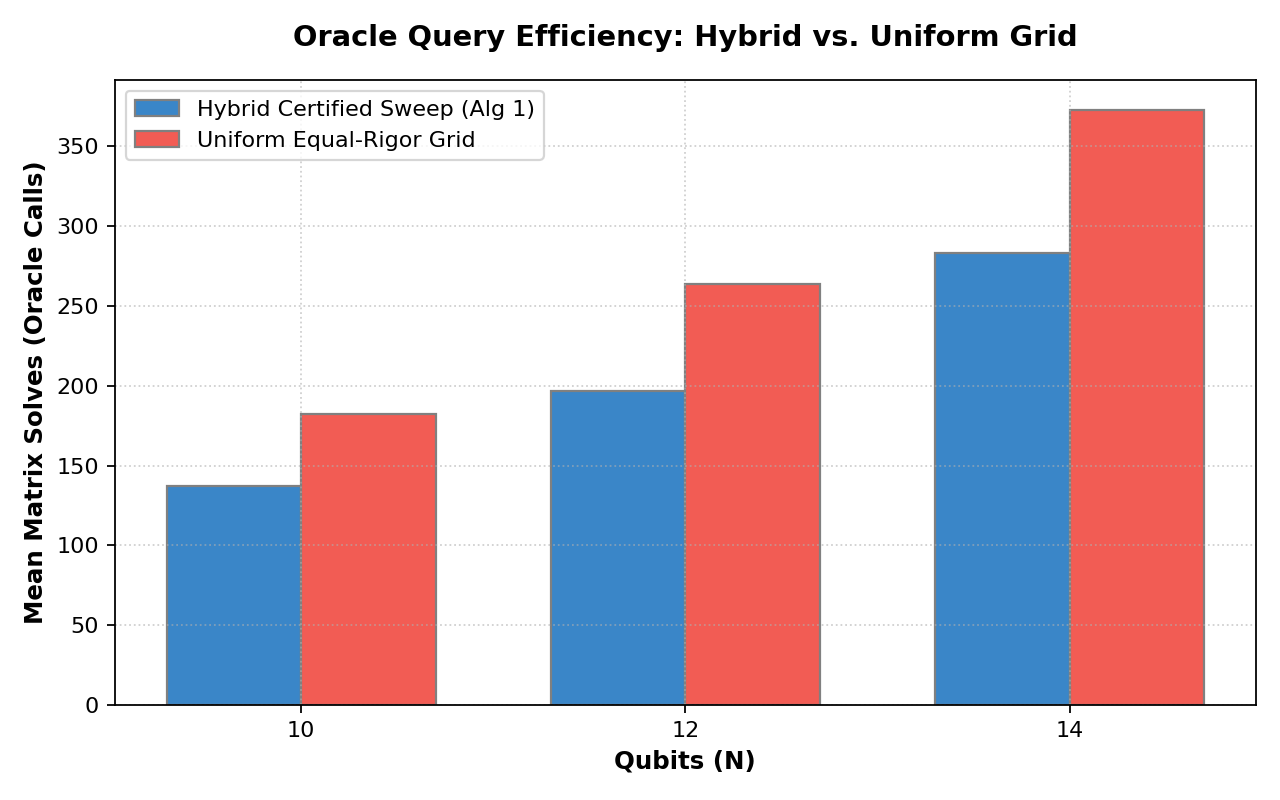
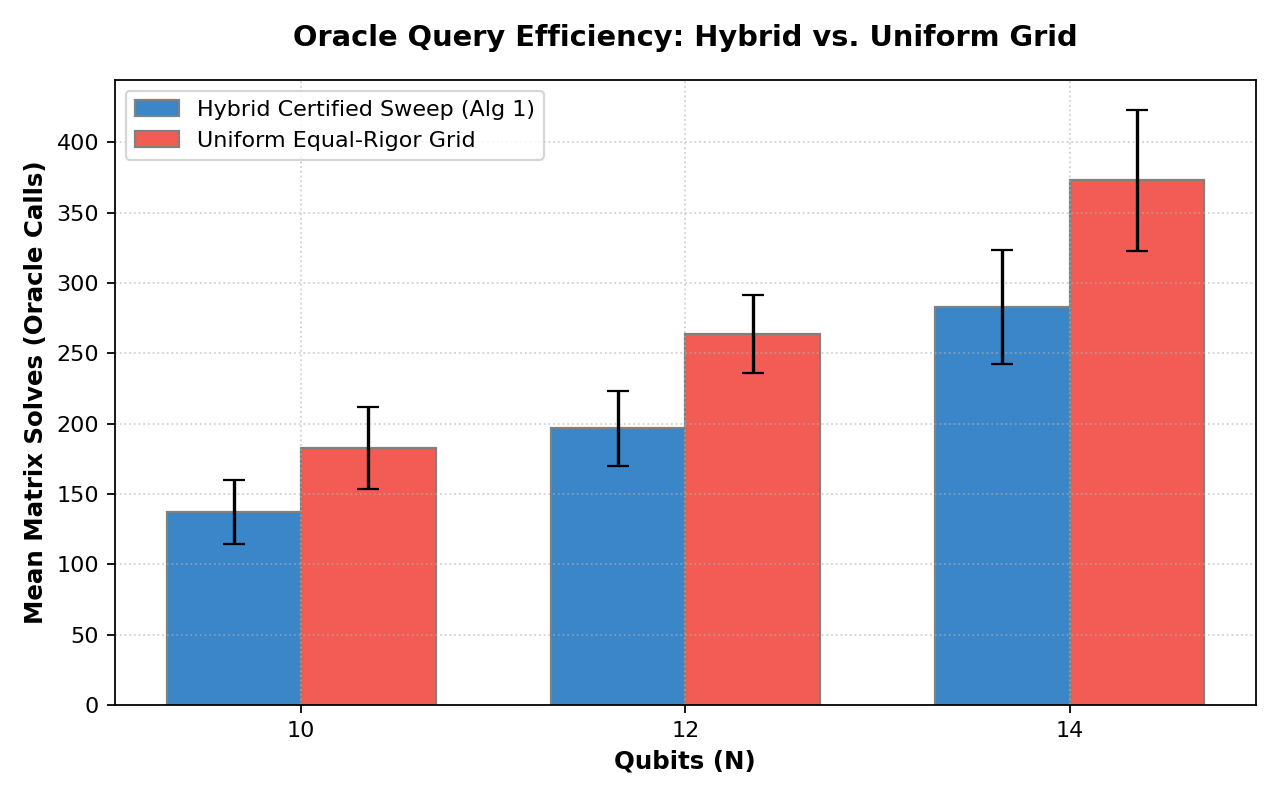
feat: add grid density analysis tools, dependency tracking, and improved visualization robustness for spectral gap benchmarks

diff --git a/plot_new_results.py b/plot_new_results.py
@@ -45,6 +45,8 @@ means = {
     "wall_validation": []
 }
 stds = {
+    "solves_hybrid": [],
+    "solves_uniform": [],
     "wall": []
 }
 
@@ -52,8 +54,15 @@ for N in sorted_Ns:
     instances = data[N]
     num = len(instances)
     means["N"].append(N)
-    means["solves_hybrid"].append(sum(inst["solves_hybrid"] for inst in instances) / num)
-    means["solves_uniform"].append(sum(inst["solves_uniform"] for inst in instances) / num)
+    
+    hybrids = [inst["solves_hybrid"] for inst in instances]
+    uniforms = [inst["solves_uniform"] for inst in instances]
+    
+    means["solves_hybrid"].append(np.mean(hybrids))
+    stds["solves_hybrid"].append(np.std(hybrids))
+    means["solves_uniform"].append(np.mean(uniforms))
+    stds["solves_uniform"].append(np.std(uniforms))
+    
     means["frac_weyl"].append(sum(inst["frac_weyl"] for inst in instances) / num)
     means["frac_floor"].append(sum(inst["frac_floor"] for inst in instances) / num)
     means["frac_floor_poly"].append(sum(inst["frac_floor_poly"] for inst in instances) / num)
@@ -72,8 +81,8 @@ bar_width = 0.35
 r1 = np.arange(len(means["N"]))
 r2 = [x + bar_width for x in r1]
 
-plt.bar(r1, means["solves_hybrid"], color="#3a86c8", width=bar_width, edgecolor="grey", label="Hybrid Certified Sweep (Alg 1)")
-plt.bar(r2, means["solves_uniform"], color="#f25c54", width=bar_width, edgecolor="grey", label="Uniform Equal-Rigor Grid")
+plt.bar(r1, means["solves_hybrid"], yerr=stds["solves_hybrid"], capsize=5, color="#3a86c8", width=bar_width, edgecolor="grey", label="Hybrid Certified Sweep (Alg 1)")
+plt.bar(r2, means["solves_uniform"], yerr=stds["solves_uniform"], capsize=5, color="#f25c54", width=bar_width, edgecolor="grey", label="Uniform Equal-Rigor Grid")
 
 plt.xlabel("Qubits (N)", fontweight="bold", fontsize=11)
 plt.ylabel("Mean Matrix Solves (Oracle Calls)", fontweight="bold", fontsize=11)

diff --git a/scratch/plot_grid_vs_gap.py b/scratch/plot_grid_vs_gap.py
@@ -4,7 +4,7 @@ import numpy as np
 import matplotlib.pyplot as plt
 
 # Add current workspace directory to sys.path
-sys.path.append(os.path.abspath("c:/Users/c4065577/Documents/Quantun_Spectral"))
+sys.path.append(os.path.abspath("."))
 
 from main import (
     PathOperator, er_graph, pinned_cost_vector, path_lipschitz, certified_sweep, lowest_two
@@ -86,11 +86,14 @@ def generate_grid_density_plot(N, seed=0, p=0.5, delta_target=0.25):
     plt.legend(fontsize=9, loc="upper right")
     plt.tight_layout()
     
-    out_path = f"results/grid_density_vs_gap_N{N}.png"
+    if N == 10:
+        out_path = "results/grid_density_vs_gap.png"
+    else:
+        out_path = f"results/grid_density_vs_gap_N{N}.png"
     plt.savefig(out_path, dpi=160)
     plt.close()
     print(f"Saved {out_path} successfully.")
 
 if __name__ == "__main__":
-    for N in [12, 14]:
+    for N in [10, 12, 14]:
         generate_grid_density_plot(N, seed=0)

diff --git a/generate_updated_comparison.py b/generate_updated_comparison.py
@@ -63,11 +63,12 @@ def generate_graphs():
     print("Generating part 1 plot...")
     plt.figure(figsize=(8, 5))
     plt.plot(s_grid, gap, 'k-', lw=2.5, label=r"Exact Gap $\Delta(s)$")
-    plt.plot(s_grid, weyl_no_anchors, color='#3a86c8', linestyle="-", lw=1.8, label=f"Weyl Bound (Endpoints) [>0: {weyl_percent:.1f}%]")
-    plt.plot(s_grid, horn_no_anchors, color='#f25c54', linestyle="--", lw=1.8, label=f"Horn Bound (Endpoints) [>0: {horn_percent:.1f}%]")
+    plt.plot(s_grid, weyl_no_anchors, color='#3a86c8', linestyle="-", lw=1.8, label=f"Weyl Bound (Endpoints) [Certified Positive: {weyl_percent:.1f}% of path]")
+    plt.plot(s_grid, horn_no_anchors, color='#f25c54', linestyle="--", lw=1.8, label=f"Horn Bound (Endpoints) [Certified Positive: {horn_percent:.1f}% of path]")
     plt.axhline(0.0, color="#9ea1a5", lw=0.8, linestyle="-")
     plt.xlabel("Annealing Parameter (s)")
     plt.ylabel("Spectral Gap")
+    plt.ylim(-0.2, 1.25 * gap.max())  # Prevent stretching down to -25
     plt.title(f"Bounds Without Anchors (N={N}, Seed={seed})")
     plt.legend()
     plt.grid(True, linestyle=":", alpha=0.5)
@@ -115,7 +116,7 @@ def generate_graphs():
         ax.grid(True, linestyle=":", alpha=0.5)
         ax.legend(loc="upper right", fontsize=9)
         
-        ymin = min(w_b.min(), h_b.min(), -0.2)
+        ymin = -0.2  # Prevent stretching down to highly negative values
         ymax = gap.max() * 1.15
         ax.set_ylim(ymin, ymax)
         

diff --git a/maxcut_gap_benchmark.py b/maxcut_gap_benchmark.py
@@ -469,7 +469,7 @@ def run_instance(inst_id, N, edges, s_grid, sector=True, krylov_m=40,
         ax.axhline(0.0, color="gray", lw=0.8)
         ax.set_xlabel("s"); ax.set_ylabel("gap / bound")
         ax.set_title(f"instance {inst_id}: N={N}, |E|={len(edges)}, dim={dim}")
-        ax.set_ylim(min(-0.5, 1.2 * min(psd.min(), horn.min())), 1.1 * gap.max())
+        ax.set_ylim(-0.2, 1.1 * gap.max())
         ax.legend(fontsize=8, ncol=2)
         fig.tight_layout()
         fig.savefig(os.path.join(outdir, f"instance_{inst_id}.png"), dpi=160)

diff --git a/README.md b/README.md
@@ -56,3 +56,16 @@ Here is exactly which script you need to run for each graph:
 If you want all of these graphs, you will need to run those separate Python commands.
 
 - **To run the full benchmark suite** and generate new data for different instances, you can execute `maxcut_gap_benchmark.py`. This script provides a command-line interface; run `python maxcut_gap_benchmark.py -h` for available arguments (like `--scan-N` or `--full-space`).
+
+## Reproducibility & Dependency Pinning
+
+To ensure reproducible environments, this repository uses pinned dependency versions. All dependencies are listed in [requirements.txt](file:///c:/Users/c4065577/Documents/Bounding_Spectral_Gaps/requirements.txt) and can be installed via:
+```bash
+pip install -r requirements.txt
+```
+
+### Reference Figures & Seeds:
+* **`comparison_updated_N10_no_anchors.png` and `comparison_updated_N10_anchors.png`** (Figures 1 & 2): Evaluated on a random Erdős--Rényi Max-Cut instance with $N=10$, edge probability $p=0.5$, and random seed `seed=0`.
+* **`efficiency_comparison.png`, `certificate_coverage.png`, and `runtime_scaling.png`** (Figures 3, etc.): Averaged over an ensemble of $20$ random instances per qubit size $N \in \{10, 12, 14\}$ with seeds ranging from $0$ to $19$.
+* **`grid_density_vs_gap.png`** (and the companion $N=12, 14$ plots): Generated with $N \in \{10, 12, 14\}$ using `seed=0`.
+* **`horn_anchors_test.png`**: Evaluated on $N=8$ using `seed=42`.